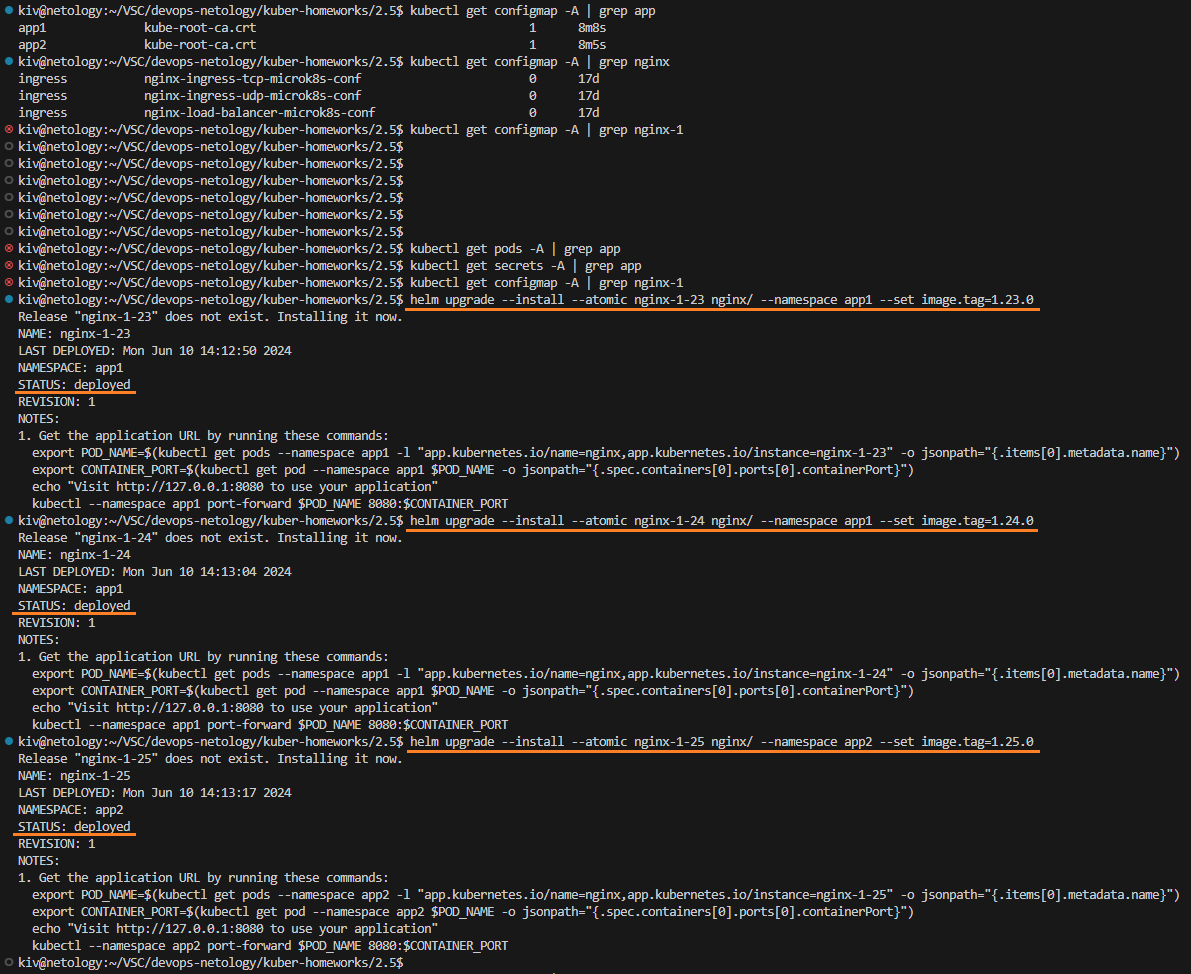
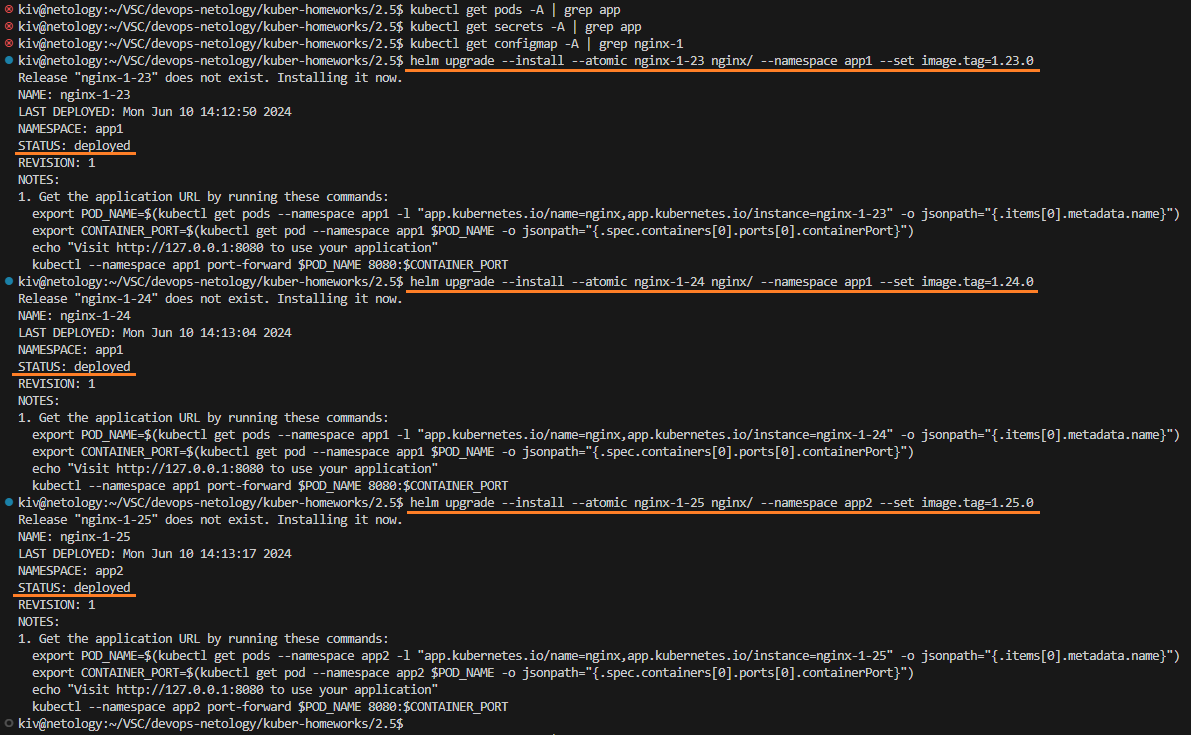
Fix for update png

Changed region(s): [[0.0, 0.0, 0.9941, 1.0]]

diff --git a/kuber-homeworks/3.1/README.md b/kuber-homeworks/3.1/README.md
@@ -1,0 +1,257 @@
+## Домашнее задание
+
+https://github.com/netology-code/kuber-homeworks/blob/main/2.5/2.5.md
+
+### Задание 1
+
+
+
+
+
+
+
+
+
+
+
+
+
+
+
+
+
+
+
+
+
+
+
+
+
+
+Устанавливаем Helm:
+```
+curl -fsSL https://raw.githubusercontent.com/helm/helm/main/scripts/get-helm-3 | bash
+helm version
+```
+
+![image](png/helm-version-01.png)
+
+Helm успешно установлен, но есть предупреждения по разрешениям на конфиг кластера.
+
+Исправляем права:
+```
+chmod 600 ~/.kube/config
+helm version
+```
+
+![image](png/helm-version-02.png)
+
+
+Создаем Helm chart:
+```
+helm create nginx
+```
+
+Удаляем часть данных из только что созданного шаблонного чарта:
+```
+rm -R nginx/charts
+rm nginx/.helmignore
+```
+
+Создаем два неймспейса app1 и app2:
+```
+kubectl get ns | grep app
+kubectl create namespace app1
+kubectl create namespace app2
+kubectl get ns | grep app
+```
+
+![image](png/namespace.png)
+
+Проверяем Helm chart перед установкой:
+<details>
+    <summary>helm template nginx</summary>
+
+```yaml
+kiv@netology:~/VSC/devops-netology/kuber-homeworks/2.5$ helm template nginx
+---
+# Source: nginx/templates/serviceaccount.yaml
+apiVersion: v1
+kind: ServiceAccount
+metadata:
+name: release-name-nginx
+labels:
+    helm.sh/chart: nginx-0.1.0
+    app.kubernetes.io/name: nginx
+    app.kubernetes.io/instance: release-name
+    app.kubernetes.io/version: "1.23.0"
+    app.kubernetes.io/managed-by: Helm
+automountServiceAccountToken: true
+---
+# Source: nginx/templates/configmap.yaml
+apiVersion: v1
+kind: ConfigMap
+metadata:
+name: "nginx-1,14,0"
+data:
+nginx.conf: |
+    worker_processes 1;
+
+    events {
+        worker_connections 1024;
+    }
+
+    http {
+        server {
+            listen 80;
+            server_name localhost;
+
+            location / {
+                root /usr/share/nginx/html;
+                index index.html;
+            }
+        }
+    }
+index.html: |
+    <html>
+    <h1>Hello</h1>
+    </br>
+    <h1>It works</h1>
+    </html>
+---
+# Source: nginx/templates/service.yaml
+apiVersion: v1
+kind: Service
+metadata:
+name: release-name-nginx
+labels:
+    helm.sh/chart: nginx-0.1.0
+    app.kubernetes.io/name: nginx
+    app.kubernetes.io/instance: release-name
+    app.kubernetes.io/version: "1.23.0"
+    app.kubernetes.io/managed-by: Helm
+spec:
+type: ClusterIP
+ports:
+    - port: 80
+    targetPort: http
+    protocol: TCP
+    name: http
+selector:
+    app.kubernetes.io/name: nginx
+    app.kubernetes.io/instance: release-name
+---
+# Source: nginx/templates/deployment.yaml
+apiVersion: apps/v1
+kind: Deployment
+metadata:
+name: release-name-nginx
+labels:
+    helm.sh/chart: nginx-0.1.0
+    app.kubernetes.io/name: nginx
+    app.kubernetes.io/instance: release-name
+    app.kubernetes.io/version: "1.23.0"
+    app.kubernetes.io/managed-by: Helm
+spec:
+replicas: 1
+selector:
+    matchLabels:
+    app.kubernetes.io/name: nginx
+    app.kubernetes.io/instance: release-name
+template:
+    metadata:
+    labels:
+        helm.sh/chart: nginx-0.1.0
+        app.kubernetes.io/name: nginx
+        app.kubernetes.io/instance: release-name
+        app.kubernetes.io/version: "1.23.0"
+        app.kubernetes.io/managed-by: Helm
+    spec:
+    serviceAccountName: release-name-nginx
+    securityContext:
+        {}
+    containers:
+        - name: nginx
+        securityContext:
+            {}
+        image: "nginx:1,14,0"
+        imagePullPolicy: IfNotPresent
+        ports:
+            - name: http
+            containerPort: 80
+            protocol: TCP
+        livenessProbe:
+            httpGet:
+            path: /
+            port: http
+        readinessProbe:
+            httpGet:
+            path: /
+            port: http
+        resources:
+            {}
+        volumeMounts:
+            - mountPath: /etc/nginx/nginx.conf
+            name: nginx-conf
+            subPath: nginx.conf
+            - mountPath: /usr/share/nginx/html/index.html
+            name: nginx-conf
+            subPath: index.html
+    volumes:
+        - name: nginx-conf
+        configMap:
+            name: "nginx-1,14,0"
+---
+# Source: nginx/templates/tests/test-connection.yaml
+apiVersion: v1
+kind: Pod
+metadata:
+name: "release-name-nginx-test-connection"
+labels:
+    helm.sh/chart: nginx-0.1.0
+    app.kubernetes.io/name: nginx
+    app.kubernetes.io/instance: release-name
+    app.kubernetes.io/version: "1.23.0"
+    app.kubernetes.io/managed-by: Helm
+annotations:
+    "helm.sh/hook": test
+spec:
+containers:
+    - name: wget
+    image: busybox
+    command: ['wget']
+    args: ['release-name-nginx:80']
+restartPolicy: Never
+```
+</details>
+
+С помощью helm деплоим две версии nginx в неймспейс app1 и одну в неймспейс app2:
+```
+kubectl get pods -A | grep app
+kubectl get secrets -A | grep app
+kubectl get configmap -A | grep nginx-1
+helm upgrade --install --atomic nginx-1-23 nginx/ --namespace app1 --set image.tag=1.23.0
+helm upgrade --install --atomic nginx-1-24 nginx/ --namespace app1 --set image.tag=1.24.0
+helm upgrade --install --atomic nginx-1-25 nginx/ --namespace app2 --set image.tag=1.25.0
+```
+
+![image](png/helm-install-01.png)
+
+Проверяем результат:
+```
+kubectl get pods -A | grep app
+kubectl get secrets -A | grep app
+kubectl get configmap -A | grep nginx-1
+kubectl get service -A | grep app
+kubectl describe pod nginx-1-23-5bcb8d96b8-fhnsn -n app1 | grep Image:
+kubectl describe pod nginx-1-24-7b885b898f-9q2sg -n app1 | grep Image:
+kubectl describe pod nginx-1-25-8584bbc84b-r4xlv -n app2 | grep Image:
+```
+
+![image](png/helm-install-02.png)
+
+Приложения успешно запущены.
+
+Helm chart:
+- [nginx](nginx)
